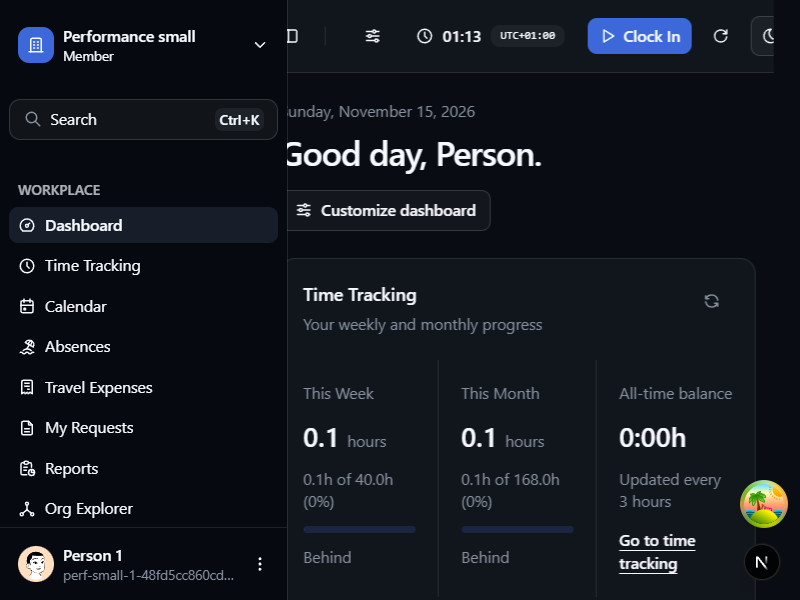
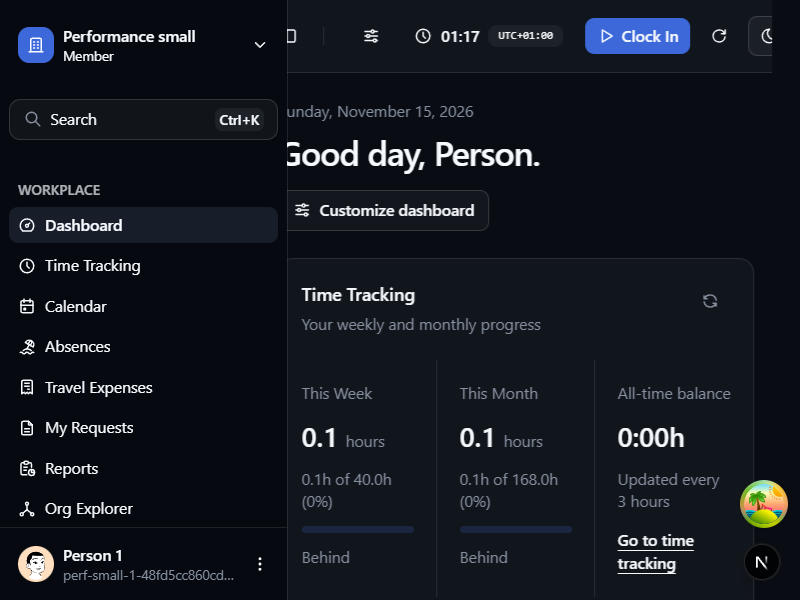
docs(dashboard): record integrated conformance and cleanup (#1700)

diff --git a/docs/design/rollout-1692/1700.md b/docs/design/rollout-1692/1700.md
@@ -48,7 +48,8 @@ The [#1689 runtime evidence](../2026-11-14-refresh-verification.md) remains the 
 | Failed read/offline | [recovery.json](1700/recovery.json): aborted one real Quick Stats GET; usable prior figures stayed visible. A subsequent real refresh recovered. [Failed-read capture](1700/quick-stats-failed-retains-data.png). Offline emulation showed [offline feedback](1700/dashboard-offline.png), then connectivity recovered. This establishes retained data/connectivity only, not inline error announcement or offline command/replay success. |
 | Scope and authority loss | [authority.json](1700/authority.json): forged expected user/org scope receives 409 with the existing context-changed message. Held a real customization POST, changed only the owned synthetic membership from approved to pending, then released it. It was refused through session/admission recovery and the database preference remained unchanged. [Refused arrival](1700/authority-refused.png). Exact membership restored; fresh real login recovered. No claim that a draft survives mandatory sign-in. |
 | Layout and preferences | Saved Large through account UI (18px root), selected Dark through real theme menu, reloaded. [layouts.json](1700/layouts.json): 1600×1000, 390×844 and 2560×1200 have viewport-matching document widths. [Desktop](1700/layout-1600.png), [phone](1700/layout-390.png), [wide](1700/layout-2560.png). Light captures above and initial Large/light checks also had no document overflow. Notification onboarding was dismissed through Not Now before accepted final layout captures. |
-| Keyboard and shell | Ctrl+B toggled collapse and reload retained each checked state. The first run's collapse persistence passed; the final [keyboard.json](1700/keyboard.json) records the reverse toggle back to expanded and its persistence. Phone drawer opened, focused a real navigation link, Escape closed it, `aria-expanded=false`, zero dialogs and focus returned to Toggle Sidebar. [Phone](1700/phone-large-dark.png). Exhaustive common primitive coverage remains F1-owned. |
+| Keyboard and shell | Ctrl+B toggled collapse and reload retained each checked state, including both collapsed and expanded observations. The final integrated [keyboard.json](1700/keyboard.json) records collapsed state and its persistence. Phone drawer opened, focused a real navigation link, Escape closed it, `aria-expanded=false`, zero dialogs and focus returned to Toggle Sidebar. [Phone](1700/phone-large-dark.png). Exhaustive common primitive coverage remains F1-owned. |
+| Automated accessibility | [accessibility.json](1700/accessibility.json): axe 4.12.1 on the actual dashboard at desktop and saved Large/Dark phone reported zero violations and zero incomplete checks (45 passes each). This scoped audit does not establish screen-reader, physical-device or exhaustive contrast acceptance. |
 | Final Next/browser | After the hydration correction, a fresh authenticated dashboard reload recorded no browser page errors and one page heading in [final-runtime.json](1700/final-runtime.json). [next-runtime.json](1700/next-runtime.json): live `get_compilation_issues` returned `issues: []`; `get_errors` returned empty configuration/session errors. Final Next probes were made with the browser connected. |
 
 ### Tool/harness limits and unsuccessful probes
@@ -76,4 +77,14 @@ Billing was disabled in the guarded local runtime. No billing-enabled dashboard,
 
 Resolved vacation-policy balance/carryover/expiry variants, real leave submission/cancel/manager approval, hydration intake/work-location utility mutations and offline queued/uncertain/refused/review-required replay were not completed. The fixture's unconfigured vacation policy prevents its real leave workflow. No uncertain queued event was discarded. No real multi-membership organization switch while a mutation was in flight was exercised; authority loss and expected-scope refusal above cover narrower boundaries. Existing page-specific tests and F1/F2/F3 primitive evidence remain applicable, not blanket browser acceptance.
 
-Integration/cleanup details are appended after final reconciliation. Issue remains OPEN. No push, PR, integration ledger/README edit, dev merge or deployment is authorized/performed.
+## Integration, reproduction and cleanup
+
+Implementation commit: `357d8a03f2981c9e6928a4ea697dfad00cc981e7`. Artifact whitespace correction: `3517f7be87b6d3fe2f0594c80ff6422f0721f668`. Safely merged the advancing integration `551b94f0d22e755217929ac4aa4b56cba5650056` with merge `50cc854db9d3272de53e9f0dbdc45cbd44bd8f44`. All four owned source/test files were unchanged by that merge, and the full heading opt-in list (including `/analytics`, `/reports/projects`, `/billing/suspended`) was preserved. The implementation branch's delta against integration remains only these dashboard fixes and #1700 evidence; no manual integration README/ledger edits.
+
+Post-merge affected validation: **34 suites / 196 tests passed**, with the one additional inherited route-metadata assertion. Full webapp typecheck also passed on this integrated tree. A fresh actual dashboard reload still had no page errors; Next MCP compilation/configuration/session errors were empty. The final dashboard capture and phone focus evidence were refreshed on that tree. Root's fresh merger owns its verified integration SHA and ledger update.
+
+For the narrow title comparison, [reproduce-no-organization.mjs](1700/reproduce-no-organization.mjs) runs from checkout root as `pnpm node docs/design/rollout-1692/1700/reproduce-no-organization.mjs <owned-private-fixture-directory>`. It requires the guarded runtime/auth setup described in the supplied Windows handoff, `dev-auth-private.json` from real Better Auth, and an owned Puppeteer browser whose websocket endpoint is saved privately as `browser-private.json` (`endpoint` property). It refuses a non-disposable/non-loopback database, uses the synthetic admin, temporarily removes only its fixture membership after real set-active(null), and restores source/membership in `finally`. It does not mint sessions. Reauthenticate between runs if prior missing-membership probes invalidated the synthetic session. Other runtime outcomes above are observations, not a turnkey replay claim.
+
+Cleanup completed: closed the scoped agent-browser session, closed its owned isolated Chrome through Puppeteer, verified the exact manifest-recorded Next command/repo/port and stopped that process tree, then ran label-guarded fixture cleanup for its three containers. Removed only the four known ticket scratch scripts and exact synthetic browser restore file; private manifests remain outside the repository. No other worker's process, session, fixture or changes were touched.
+
+Issue remains OPEN. No push, PR, manual integration ledger/README edit, dev merge or deployment performed. This is an implementation handoff with the explicit limits above, not final rollout acceptance.
